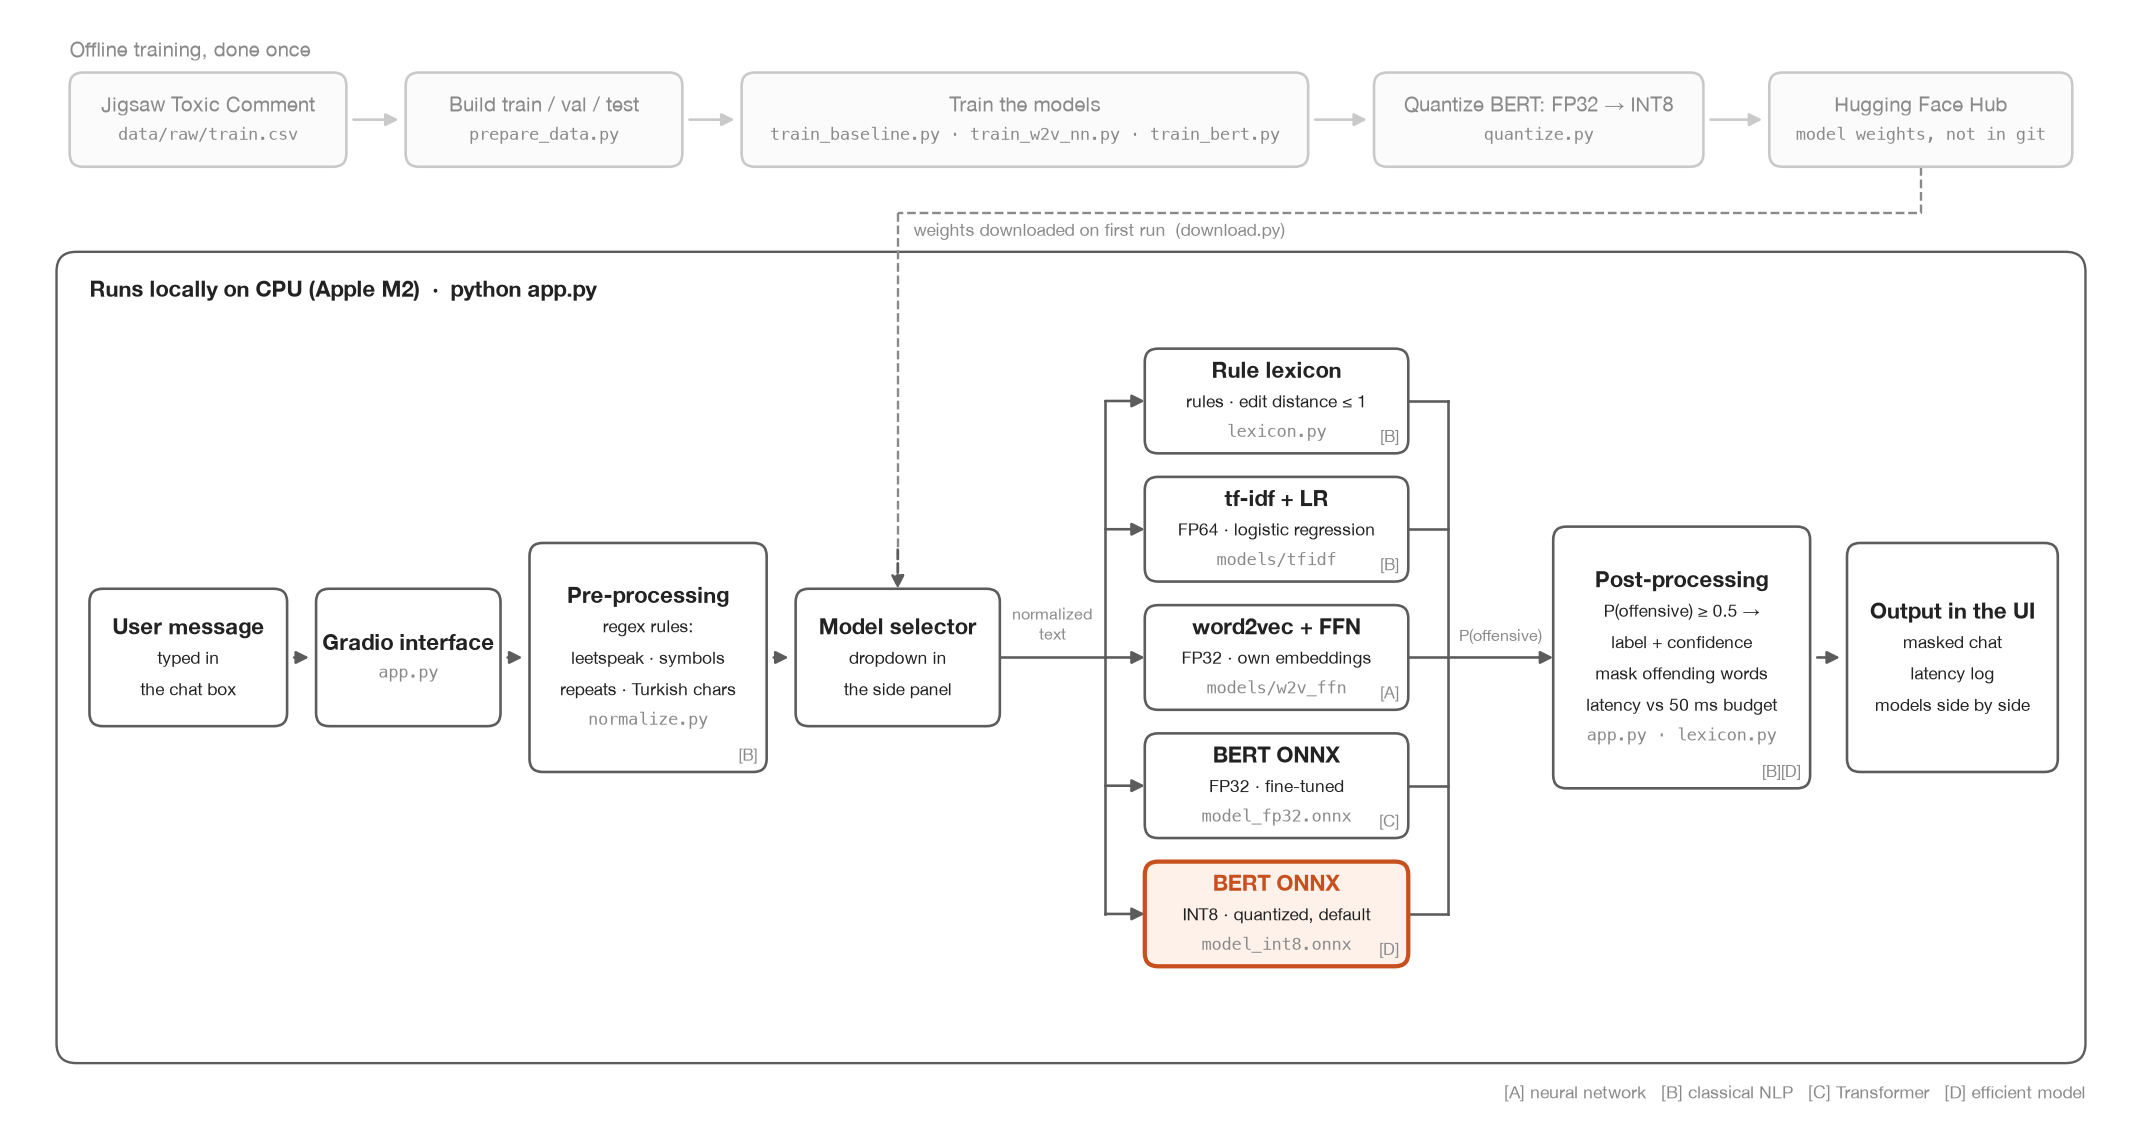
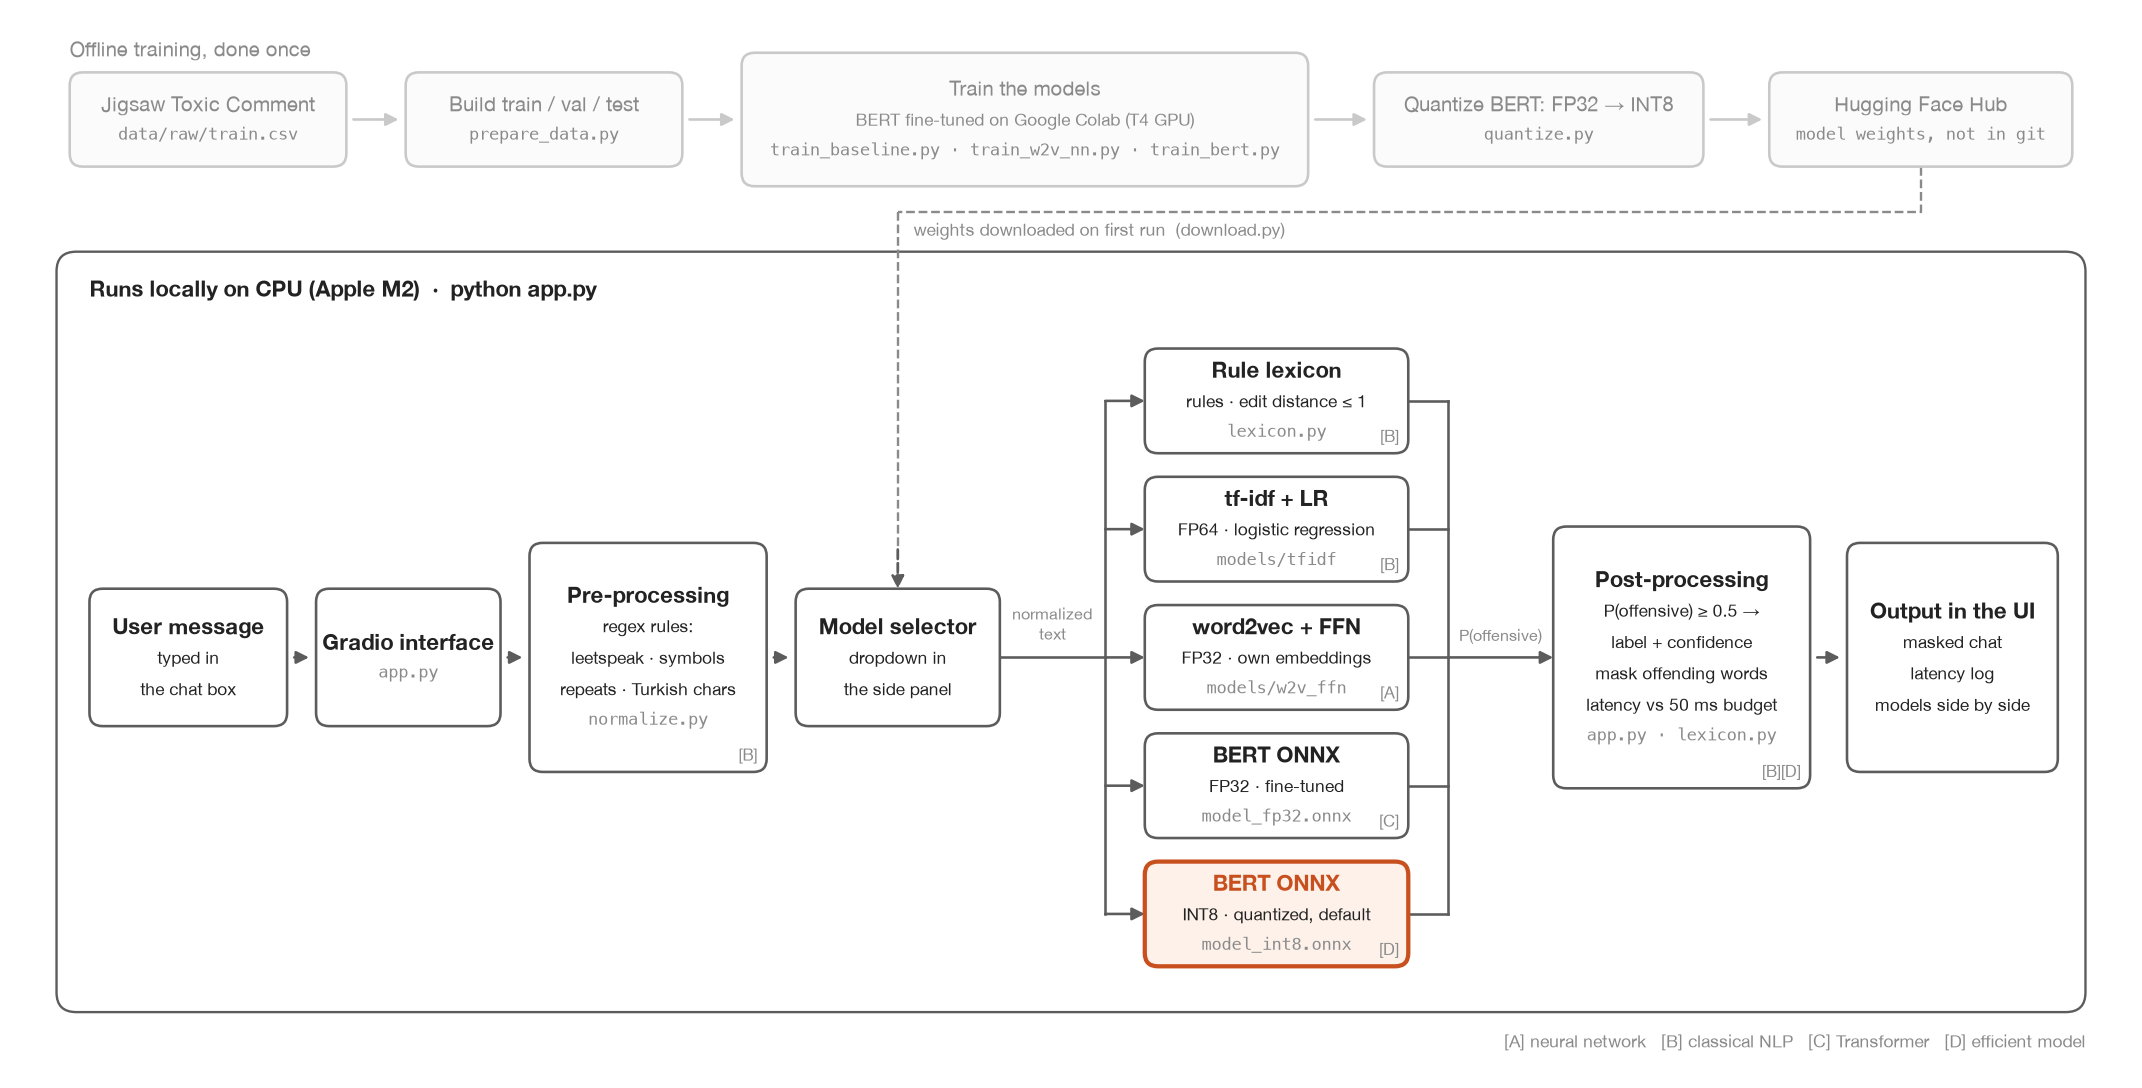
Note Colab training in the architecture diagram and tighten its layout

diff --git a/docs/draw_architecture.py b/docs/draw_architecture.py
@@ -16,9 +16,9 @@ FAINT = "#c9c9c9"
 ACCENT = "#c8501e"
 ACCENT_FILL = "#fdf1ea"
 
-fig, ax = plt.subplots(figsize=(16, 8.45), dpi=170)
+fig, ax = plt.subplots(figsize=(16, 8.06), dpi=170)
 ax.set_xlim(0, 16)
-ax.set_ylim(0.1, 8.55)
+ax.set_ylim(0.49, 8.55)
 ax.axis("off")
 fig.patch.set_facecolor("white")
 
@@ -60,14 +60,16 @@ ax.text(0.4, 8.3, "Offline training, done once", fontsize=8.6, color=MUTED, va="
 sw, sh, sy = 2.1, 0.72, 7.4
 s1 = box(0.4, sy, sw, sh, "Jigsaw Toxic Comment", file="data/raw/train.csv", faint=True)
 s2 = box(2.95, sy, sw, sh, "Build train / val / test", file="prepare_data.py", faint=True)
-s3 = box(5.5, sy, 4.3, sh, "Train the models", file="train_baseline.py · train_w2v_nn.py · train_bert.py", faint=True)
+s3 = box(5.5, sy - 0.15, 4.3, sh + 0.3, "Train the models", note="BERT fine-tuned on Google Colab (T4 GPU)",
+         file="train_baseline.py · train_w2v_nn.py · train_bert.py", faint=True)
 s4 = box(10.3, sy, 2.5, sh, "Quantize BERT: FP32 → INT8", file="quantize.py", faint=True)
 s5 = box(13.3, sy, 2.3, sh, "Hugging Face Hub", file="model weights, not in git", faint=True)
 for a, b in ((s1, s2), (s2, s3), (s3, s4), (s4, s5)):
     arrow(edge(a, "r"), edge(b, "l"), faint=True)
 
 fx, fy, fw, fh = 0.3, 0.55, 15.4, 6.2
-ax.add_patch(FancyBboxPatch((fx, fy), fw, fh, boxstyle="round,pad=0,rounding_size=0.15",
+fb = 0.94
+ax.add_patch(FancyBboxPatch((fx, fb), fw, fy + fh - fb, boxstyle="round,pad=0,rounding_size=0.15",
                             facecolor="white", edgecolor=LINE, linewidth=1.0, zorder=0))
 ax.text(fx + 0.25, fy + fh - 0.28, "Runs locally on CPU (Apple M2)  ·  python app.py",
         fontsize=9.2, color=INK, va="center", fontweight="bold")
@@ -136,7 +138,7 @@ ax.plot([sx, sx], [7.05, sy_top + 0.01], color=MUTED, linestyle="--", linewidth=
 arrow((sx, sy_top + 0.3), (sx, sy_top), dashed=True, shrink=0)
 ax.text(sx + 0.12, 6.92, "weights downloaded on first run  (download.py)", fontsize=7.4, color=MUTED, va="center")
 
-ax.text(fx + fw, fy - 0.22, "[A] neural network   [B] classical NLP   [C] Transformer   [D] efficient model",
+ax.text(fx + fw, fb - 0.22, "[A] neural network   [B] classical NLP   [C] Transformer   [D] efficient model",
         fontsize=7.4, color=MUTED, ha="right", va="center")
 
 fig.savefig(OUT, bbox_inches="tight", facecolor="white")
